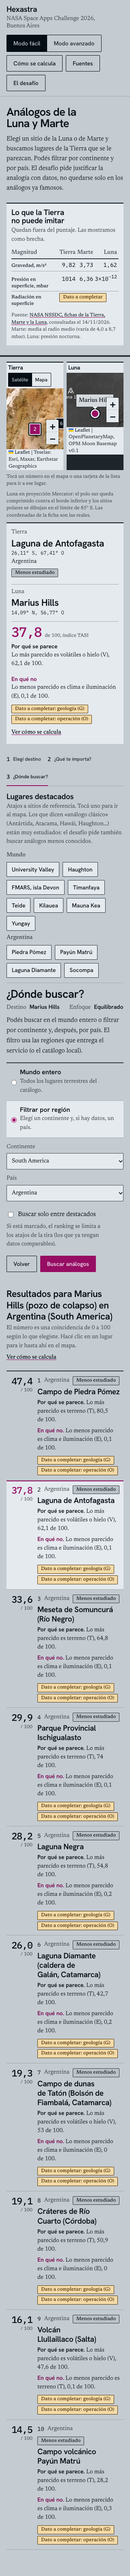
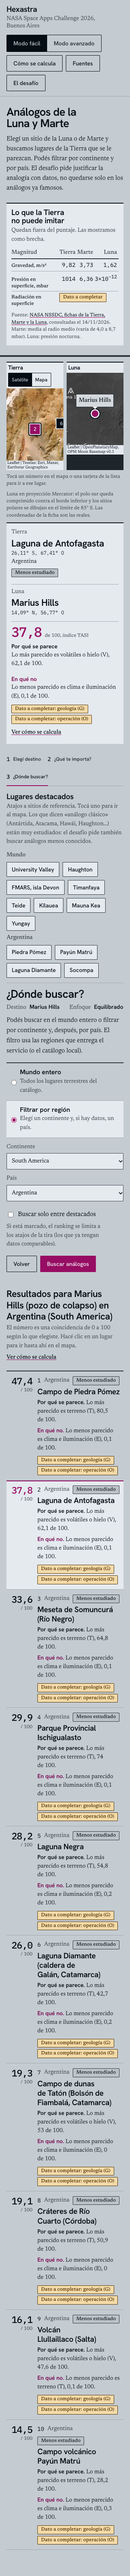
test: tests del front (explicación del par y contrato de ids), capturas a 320/768/1024/1440 y ajustes de Hallmark

Changed region(s): [[0.5, 0.1555, 0.9375, 0.1866], [0.0625, 0.1555, 0.4688, 0.1866]]

diff --git a/css/easy.css b/css/easy.css
@@ -2,6 +2,12 @@
  * nav: kept · signature: Earth and destination maps side by side, both points marked, over the pair ledger (why it resembles, where it breaks, data to complete) · states: loading, empty, error, full
  * axes: mid/grotesk-sans/chromatic-magenta · posture: restrained · contrast: pass · v2.0.0 */
 /* Hallmark · pre-emit critique: P4 H4 E4 S4 R4 V3 · weakest: V, the shell is kept; the two maps and the pair ledger carry the screen */
+/* Hallmark · waive 39b · button.easy-card is a whole ruled row (destination or approach) acting as one selectable option · the row carries the site name, its IAU name and its catalogue summary, so it cannot stand 40px */
+/* Hallmark · dropped http://openplanetarymap.org/basemaps/mars/opm-mars-basemap-v0-2/, "Marte" · at load the advanced right map now opens on the chosen target (Shackleton, lunar), so it shows the Moon basemap and its credit; both return when a Mars target is chosen */
+/* Hallmark · reworded "Tierra · vista mundial" to "Tierra" · 63 names the middle-dot join; the destination map sits beside it with its own head */
+/* Hallmark · reworded "1991–2020" to "de 1991 a 2020" in the method dialog · 19 names the dash */
+/* Hallmark · dismissed F4 · the filled ink fills are the selected state of tabs and toggles (mode, body, basemap, chosen row), not primary buttons; the one primary is the magenta action */
+/* Hallmark · answered F7 · the shared recipe is the ruled row of the ledger (steps, destinations, results, links), the theme's one surface by design */
 
 /* ---------- Mode switching (wiring kept) ---------- */
 body.mode-easy .toolbar,
@@ -52,7 +58,7 @@ a.btn { text-decoration: none; }
 }
 .easy-step-btn:hover:not(:disabled) { background: transparent; color: var(--color-ink); }
 .easy-step-btn:active:not(:disabled) { background: transparent; color: var(--color-accent-2); }
-.easy-step-btn:disabled { background: transparent; border-color: transparent; color: var(--color-muted); opacity: 0.75; }
+.easy-step-btn:disabled { background: transparent; border-color: transparent; color: var(--color-muted); opacity: 0.75; cursor: not-allowed; }
 .easy-step-num { font: 500 var(--text-sm)/1 var(--font-outlier); }
 .easy-step.is-current .easy-step-btn { color: var(--color-ink); border-bottom-color: var(--color-accent); }
 .easy-step.is-done .easy-step-btn { color: var(--color-ink-2); }
@@ -307,7 +313,7 @@ a.btn { text-decoration: none; }
 .easy-pair-place { font-size: var(--text-sm); }
 .easy-pair-empty { font-size: var(--text-sm); color: var(--color-muted); max-width: 40ch; }
 .easy-pair-score { display: flex; align-items: baseline; gap: var(--space-xs); margin-top: var(--space-sm); padding-top: var(--space-xs); border-top: var(--rule-hair) solid var(--color-rule); }
-.easy-pair-score .easy-score-num { font-size: var(--text-3xl); color: var(--color-accent); }
+.easy-pair-score .easy-score-num { font-size: var(--text-3xl); font-variant-numeric: tabular-nums; color: var(--color-accent); }
 .easy-pair-why { display: grid; grid-template-columns: minmax(0, 1fr) minmax(0, 1fr); gap: var(--space-md); margin: var(--space-xs) 0 0; }
 .easy-pair-why dt { font: 600 var(--text-sm)/1.3 var(--font-display); color: var(--color-ink); }
 .easy-pair-why div + div dt { color: var(--color-accent-2); }
@@ -348,4 +354,8 @@ a.btn { text-decoration: none; }
   .easy-map-label { padding: var(--space-2xs); }
   .easy-map-label h3 { font-size: var(--text-sm); }
   .easy-pair { padding-inline: var(--space-sm); }
+  /* En el celular los dos mapas se angostan: zoom por gesto y atribución compacta (sigue visible). */
+  .easy-map .leaflet-control-zoom { display: none; }
+  .easy-map .leaflet-control-attribution { max-width: 100%; padding: 0 var(--space-3xs); font-size: 0.5625rem; line-height: 1.25; }
+  .easy-map .leaflet-attribution-flag { display: none !important; }
 }

diff --git a/index.html b/index.html
@@ -161,14 +161,14 @@ altitud / UV (proxy) = min(1, elevación_m / 4000)
       <h3>Lo que no entra en el índice</h3>
       <p>Geología, relieve, sales y vulcanismo aparecen en el gráfico en color ámbar como <em>valor de ejemplo / a completar</em>. Son juicios preliminares del equipo, justificados en el texto, no un score publicado ni un índice espectral.</p>
       <h3>Clima y elevación</h3>
-      <p>La temperatura 1991–2020 sale de ERA5-Land vía Open-Meteo. La precipitación del mismo período sale de ERA5 (0,25°), porque ERA5-Land devolvió nulos de precipitación en esta consulta. La elevación es SRTM 30 m vía OpenTopoData en el punto citado, no necesariamente la cumbre ni un promedio del área. En Ischigualasto, Payún Matrú y Laguna Negra el reanálisis de lluvia puede no coincidir con la percepción local o con la literatura: lo dejamos explícito en cada ficha.</p>
+      <p>La temperatura de 1991 a 2020 sale de ERA5-Land vía Open-Meteo. La precipitación del mismo período sale de ERA5 (0,25°), porque ERA5-Land devolvió nulos de precipitación en esta consulta. La elevación es SRTM 30 m vía OpenTopoData en el punto citado, no necesariamente la cumbre ni un promedio del área. En Ischigualasto, Payún Matrú y Laguna Negra el reanálisis de lluvia puede no coincidir con la percepción local o con la literatura: lo dejamos explícito en cada ficha.</p>
       <h3 id="fuentes-anchor">Fuentes principales</h3>
       <ul>
         <li>Coordenadas terrestres: Wikipedia/Wikidata (Piedra Pómez, Laguna Negra), GVP e IGN (Payún Matrú), sitio oficial de Ischigualasto, abstract EPSC 2022-1152 (Laguna de Antofagasta).</li>
         <li>Coordenadas de Marte: NASA GISS Mars24 (landers) y USGS IAU Gazetteer (Medusae Fossae, Pavonis Mons).</li>
         <li>Elevación terrestre: OpenTopoData SRTM30m, 14 de noviembre de 2026.</li>
         <li>Elevación de Gale: NASA Facts MSL/Curiosity, −4501 m. El resto de cotas marcianas quedó pendiente.</li>
-        <li>Clima: Open-Meteo Historical Weather API, ERA5-Land (temperatura) y ERA5 (precipitación), 1991–2020.</li>
+        <li>Clima: Open-Meteo Historical Weather API, ERA5-Land (temperatura) y ERA5 (precipitación), de 1991 a 2020.</li>
         <li>Constantes de Marte: NASA NSSDC Mars Fact Sheet.</li>
         <li>Teselas: OpenStreetMap, Esri, NASA GIBS, OpenPlanetaryMap, WhereOnMars/Carto (MOLA y relieve).</li>
       </ul>
